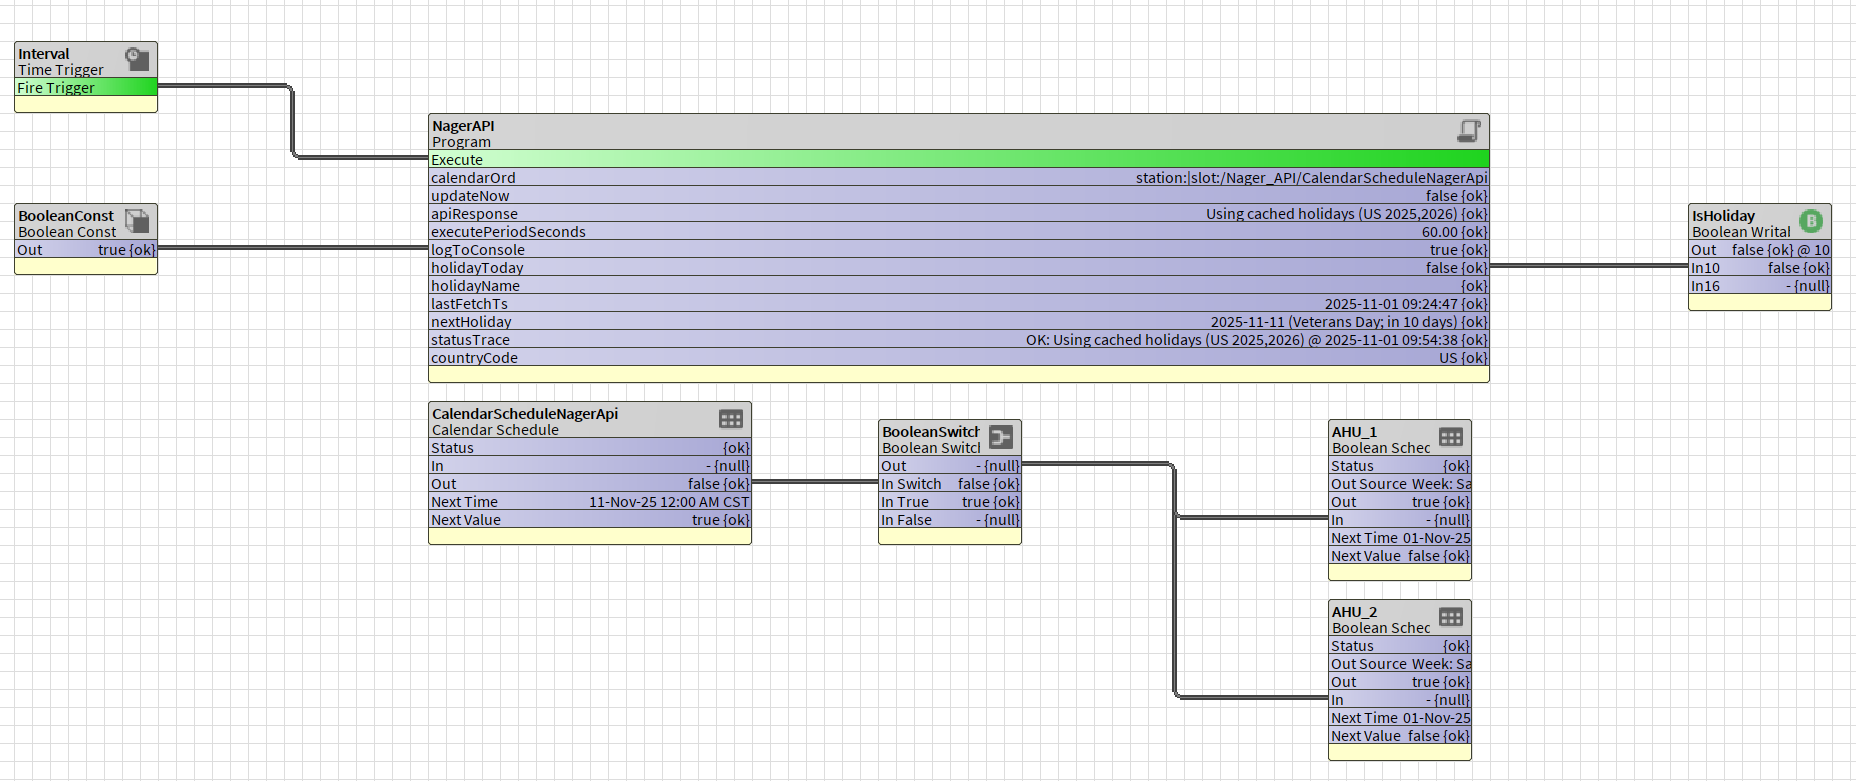
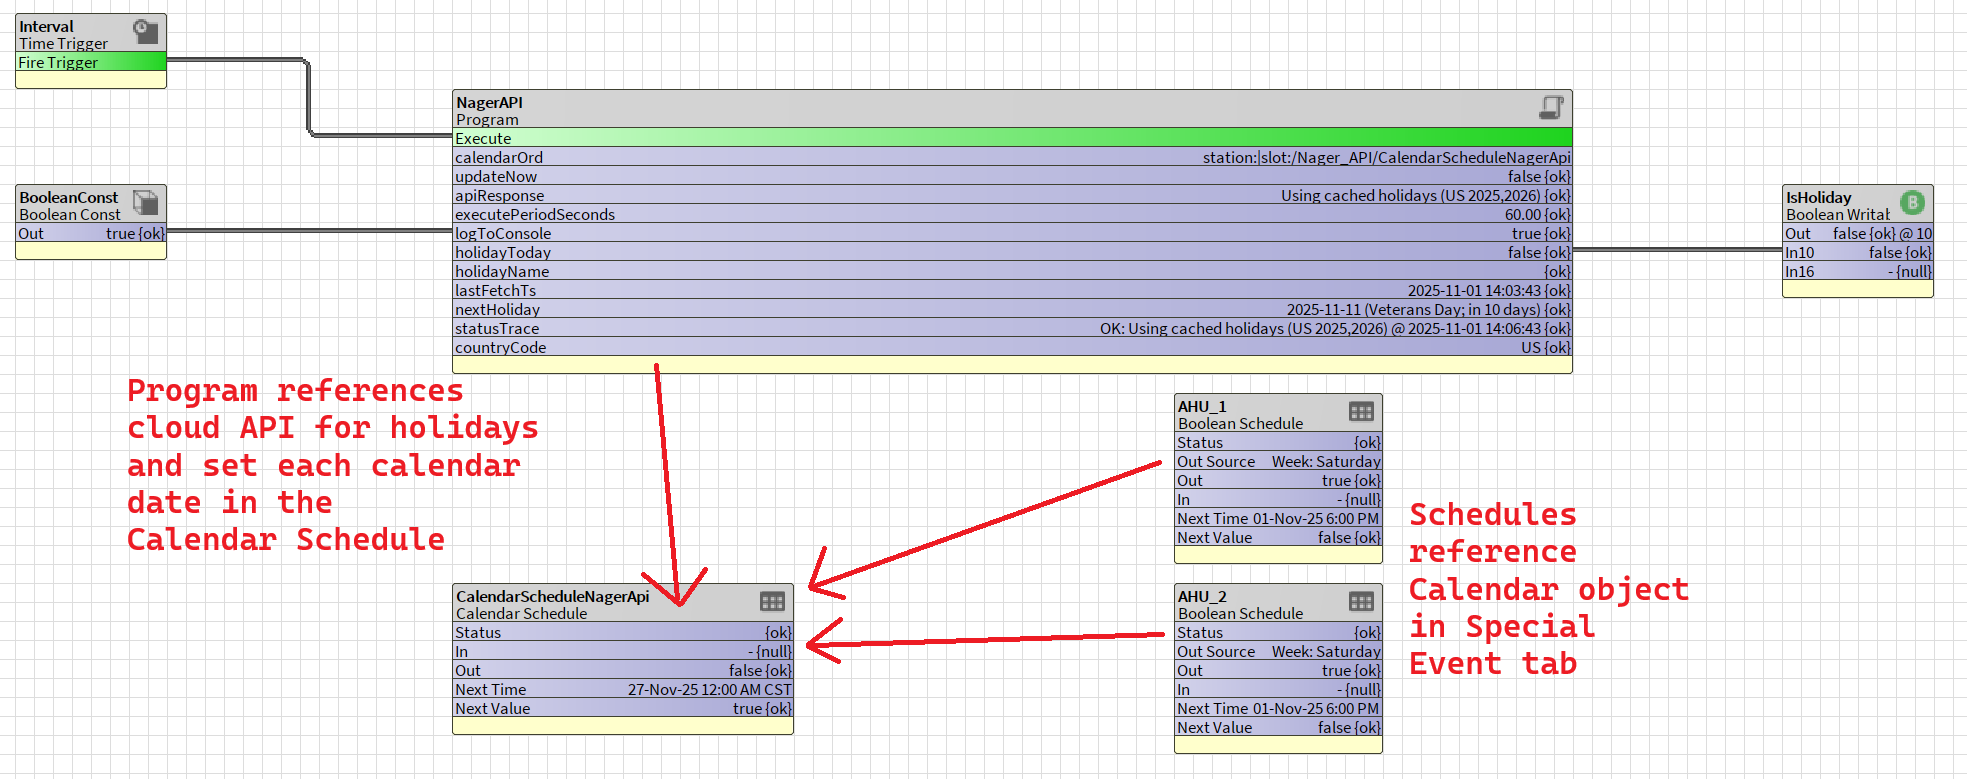
Nager API done still working UK bank holiday API

diff --git a/README.md b/README.md
@@ -3884,7 +3884,7 @@ Fetches **public holidays** from the free Nager.Date API and auto-drives a **Cal
 
 **Quick setup**
 1. Drop the Program Object and wire an **Interval** trigger (or use its internal timer).
-2. Set `countryCode` (e.g., `US`, `GB`, `CA`).  
+2. Set `countryCode` (e.g., `US`, `GB`, `CA`) on the ProgramObject Property Sheet.  
 3. (Optional) Toggle `updateNow` to force an immediate refresh.
 4. Wire the **CalendarSchedule** `Out` to any Boolean Schedule inputs you want to override on holidays.
 
@@ -3907,6 +3907,11 @@ If you create a `CalendarSchedule` inside the Program’s *Imports* tab, add the
 - Safe defaults + internal caching reduce API chatter.
 - Use `logToConsole = true` for quick debugging in Application Director.
 - Reference Country Codes here: https://date.nager.at/Country
+- Ensure Holidays are populating on the equipment level schedules as shown below in the snip with proper referencing of the Calender Schedule on the Special Event Tab. 
+
+<p align="center">
+  <img src="snips\nagerApiSnipSchedule.png" alt="Note" width="720">
+</p>
 
 ### 💻 Java Code
 
@@ -3978,7 +3983,6 @@ private String cleanName(String raw, int y, int m0, int d) {
     if (w.length() > 1) sb.append(w.substring(1).toLowerCase());
   }
   if (sb.length() == 0) sb.append("Holiday");
-  sb.append("_").append(String.format("%04d%02d%02d", y, m0 + 1, d)); // unique per day
   return sb.toString();
 }
 
@@ -4307,11 +4311,20 @@ private javax.baja.schedule.BCalendarSchedule resolveCalendar() {
   }
   return null;
 }
-
 ```
 
 </details>
 
+---
+
+<details>
+<summary>🗓 Hoiday Checker UK Gov Bank Holidays</summary>
+
+
+* https://www.gov.uk/bank-holidays.json
+
+
+</details>
 
 
 ---
